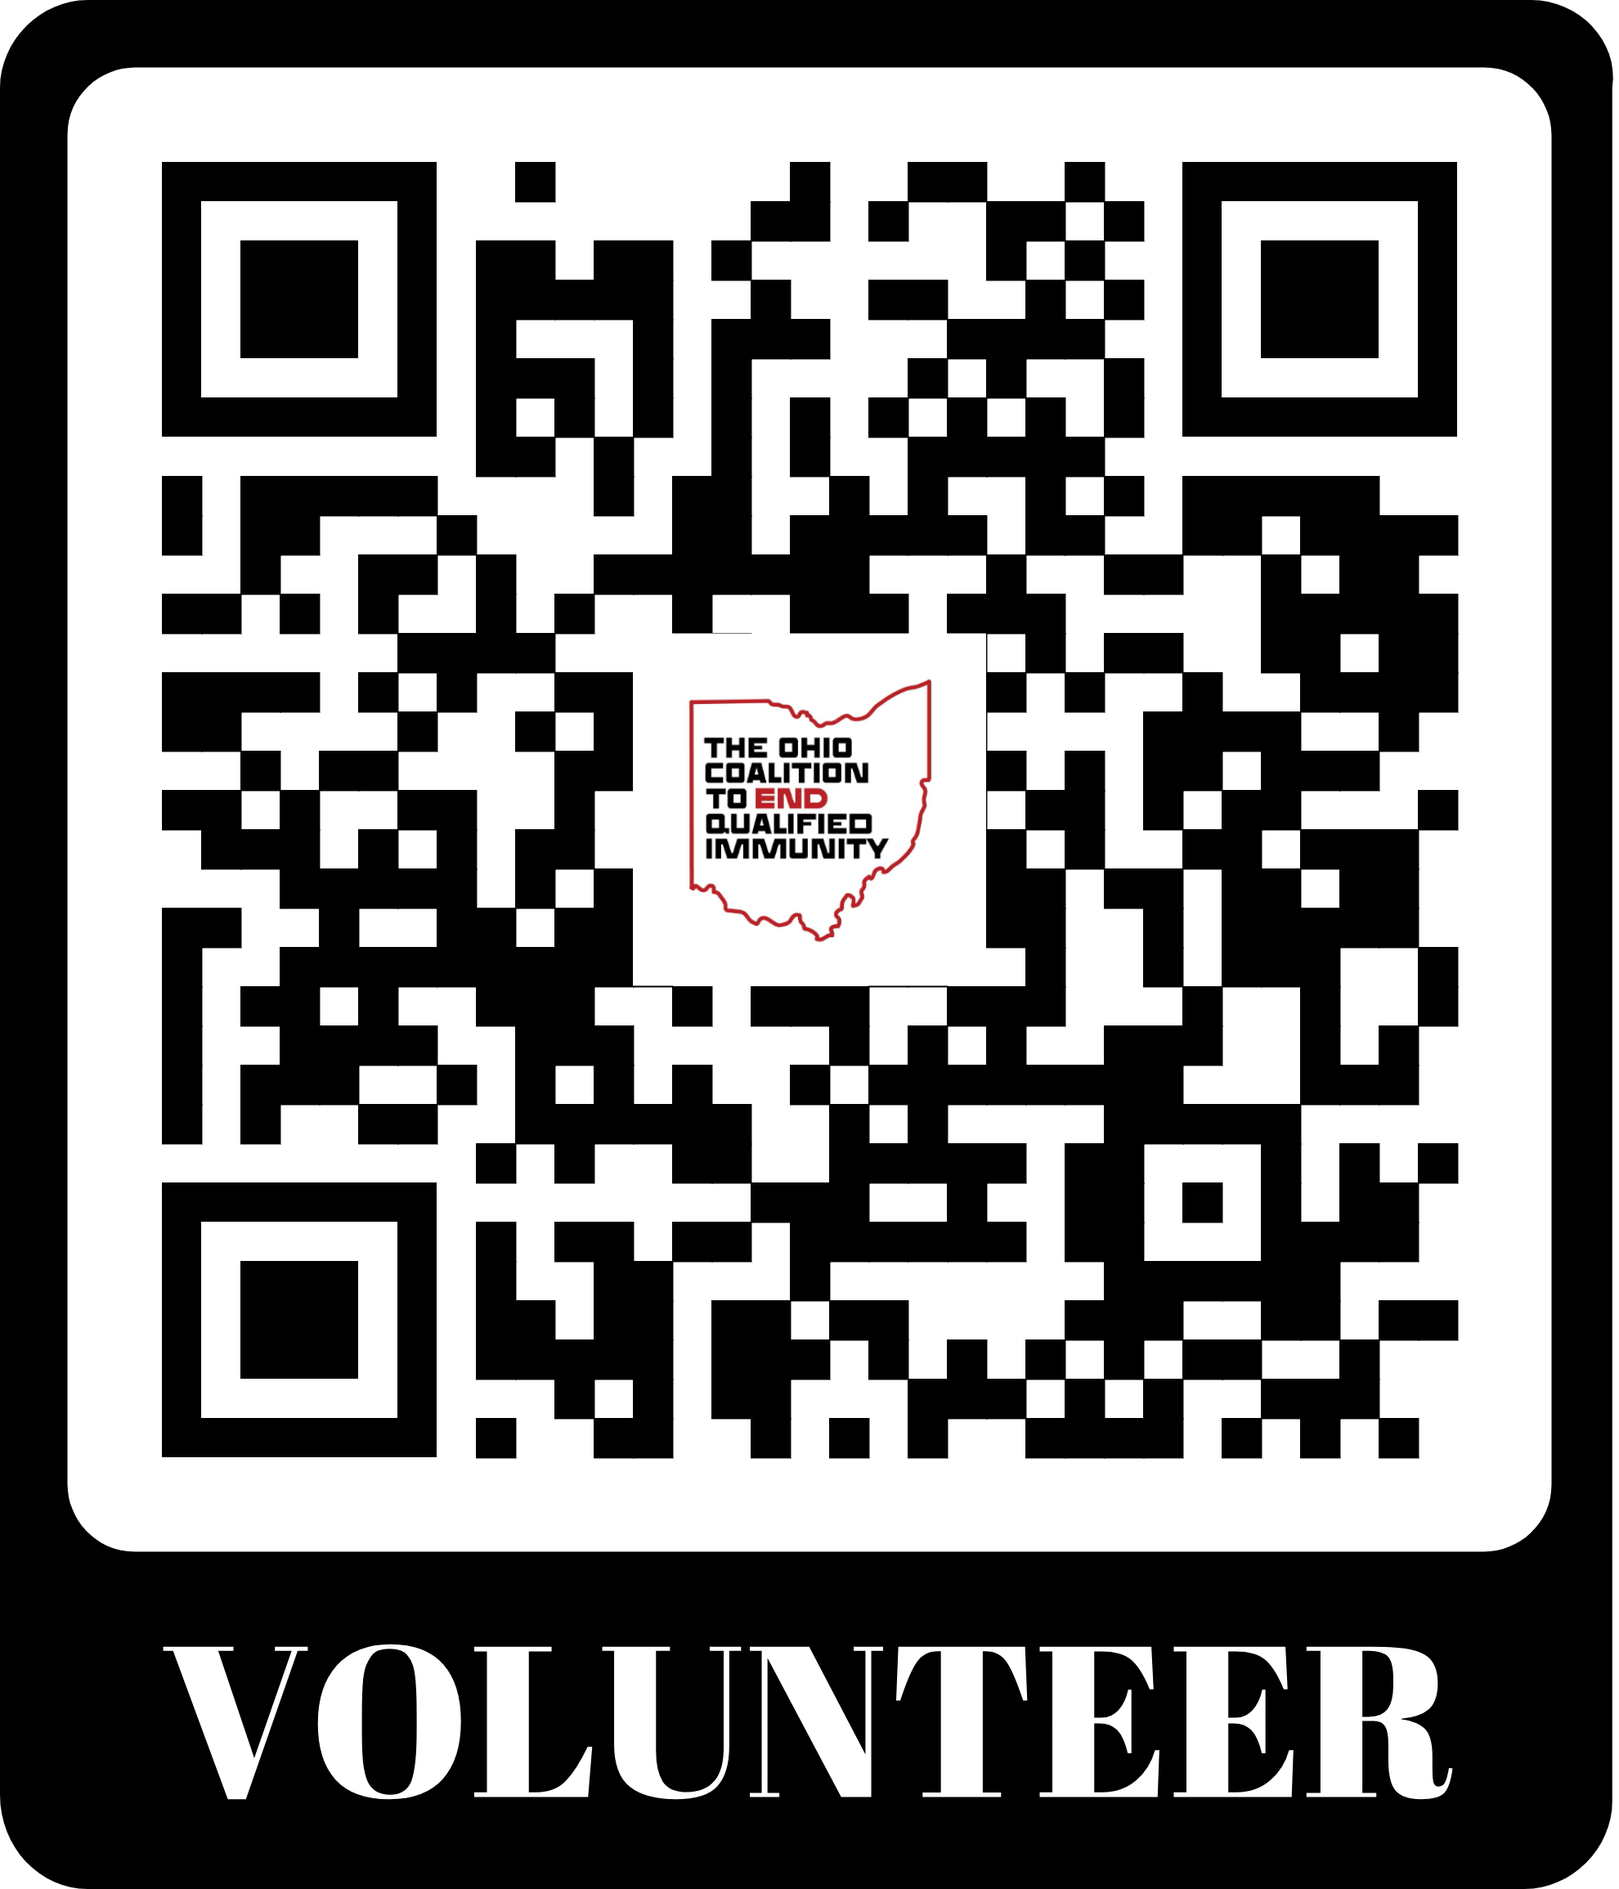
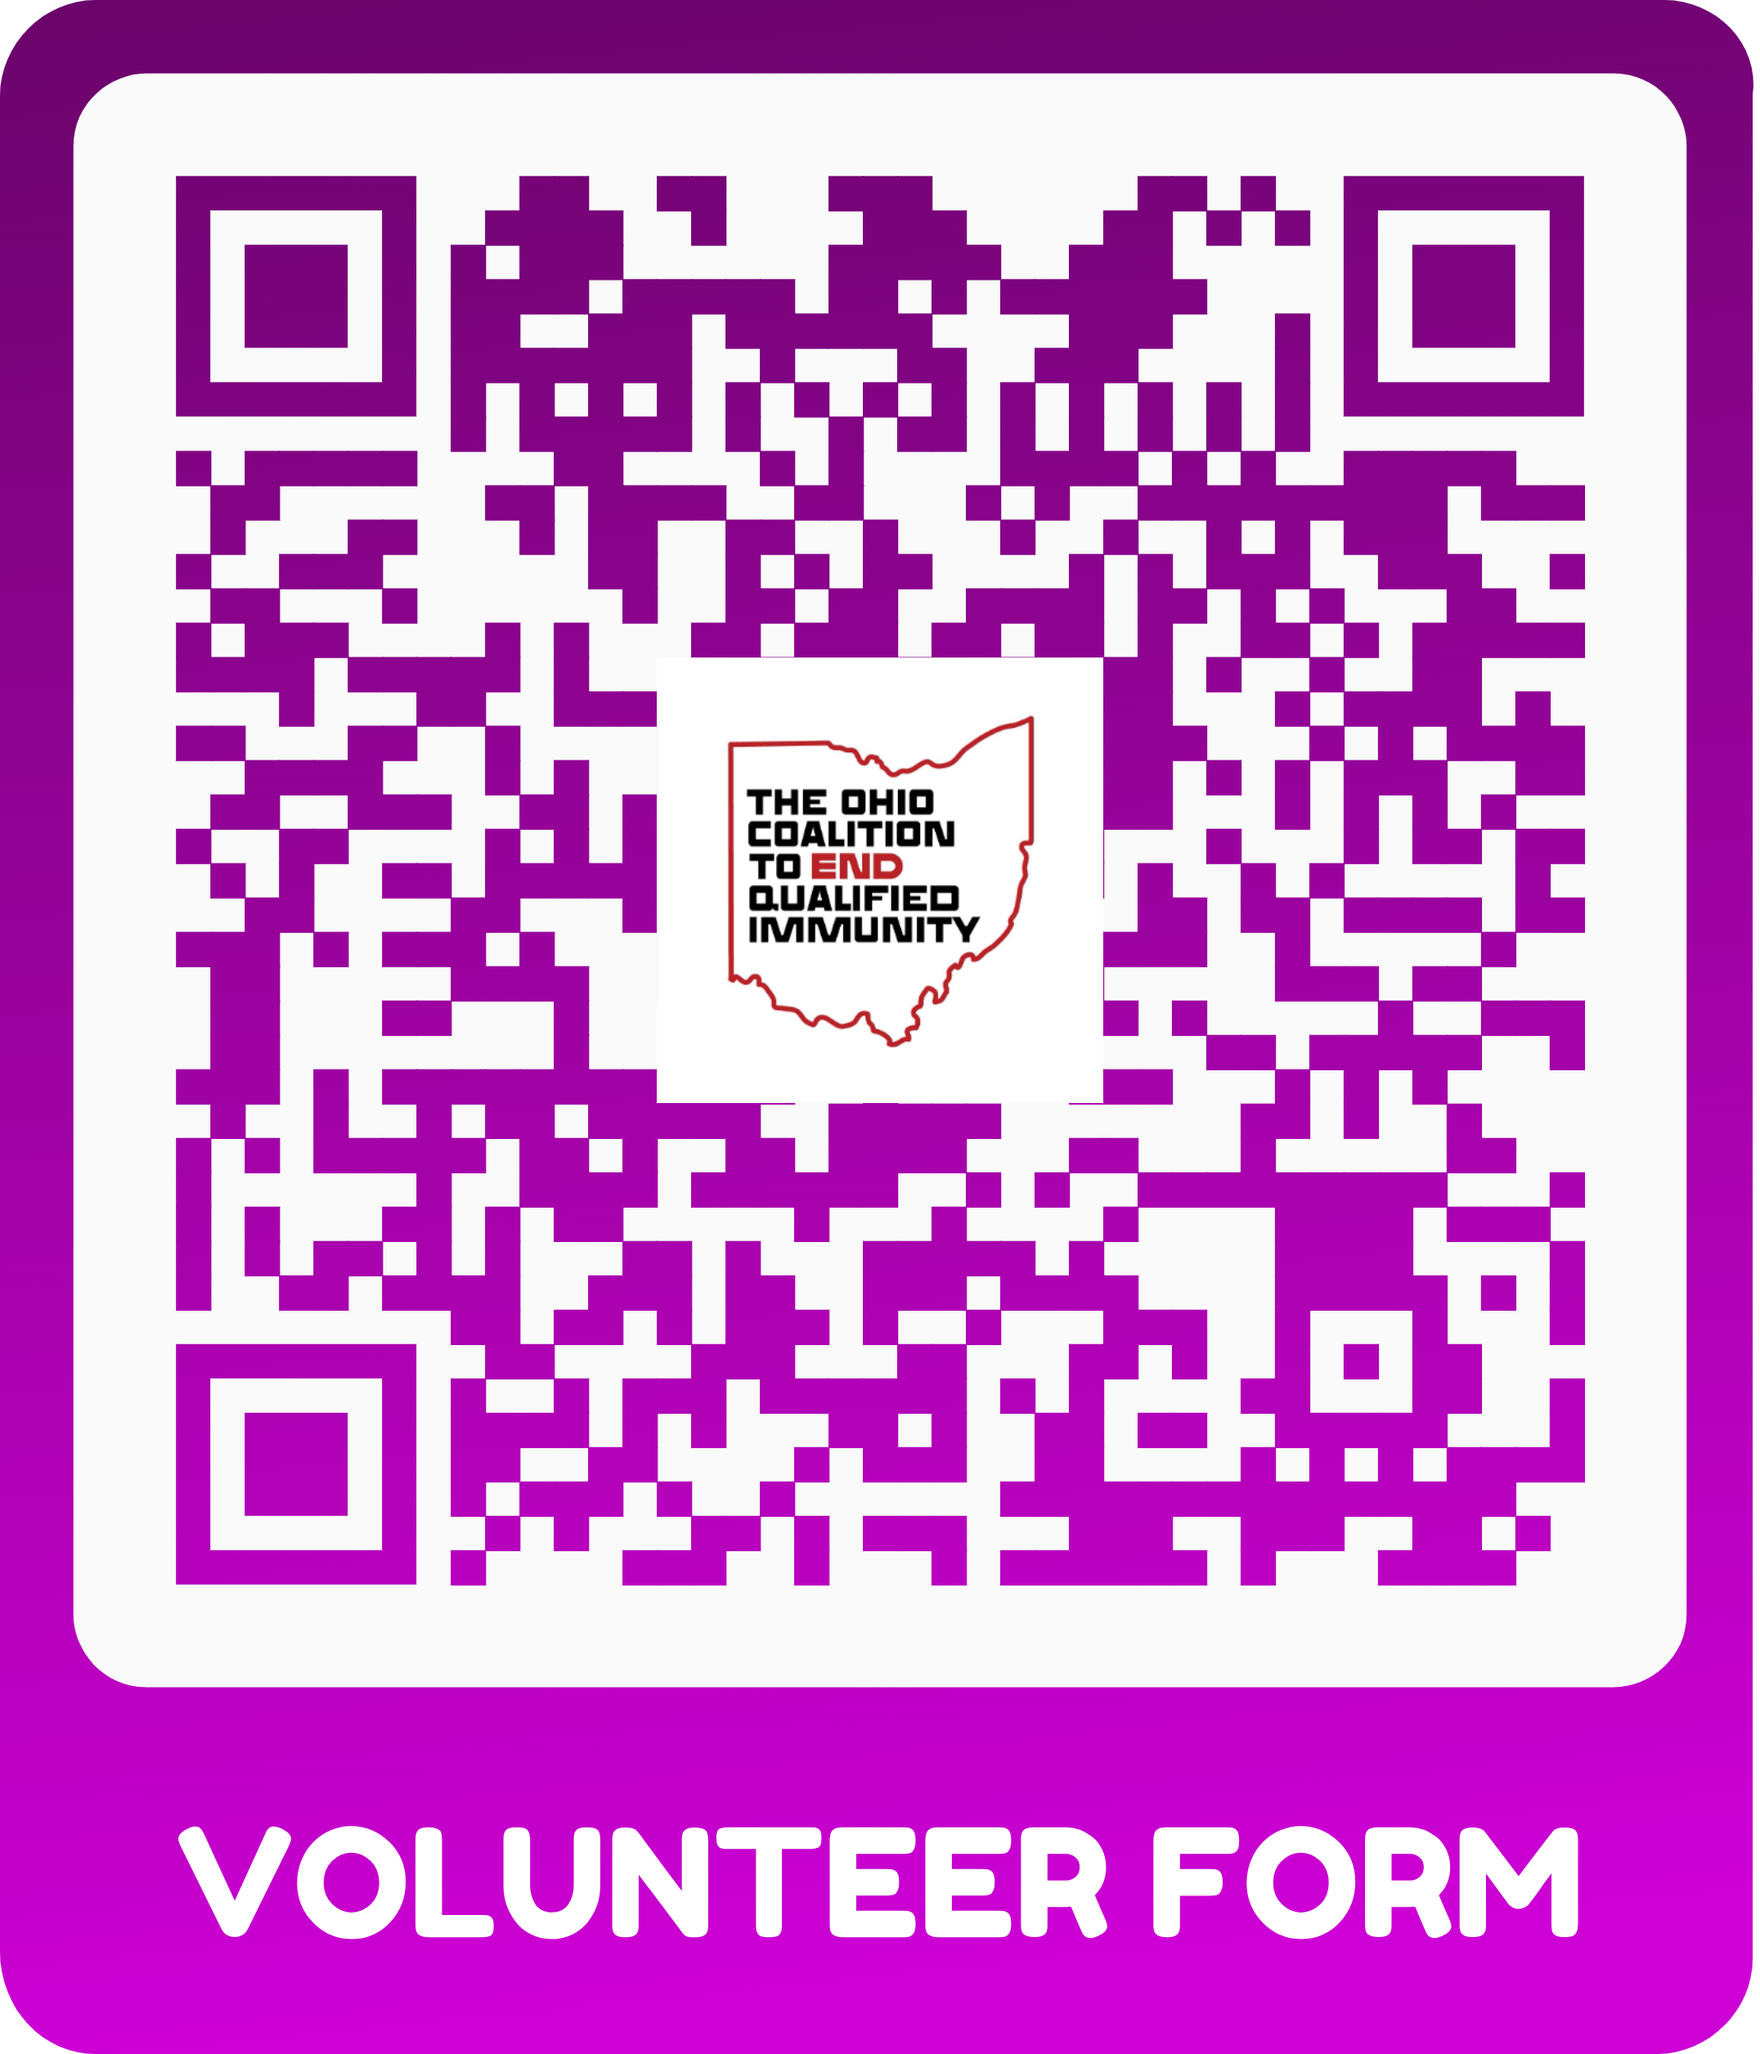
"main: update qr code for google form"

diff --git a/flyer_version_1.css b/flyer_version_1.css
@@ -215,40 +215,40 @@
             font-size: 1.1em;
         }
 
-.image-container {
-    width: 300px;
-    height: auto;
-    margin: 0 auto;
-    overflow: hidden;
-    text-align: center;
-}
+        .image-container {
+            width: 300px;
+            height: auto;
+            margin: 0 auto;
+            overflow: hidden;
+            text-align: center;
+        }
 
-.image-container a img {
-    width: 100%;
-    height: auto;
-    display: inline-block;
-}
+        .image-container a img {
+            width: 100%;
+            height: auto;
+            display: inline-block;
+        }
 
-a:link {
-  color: green;
-  background-color: transparent;
-  text-decoration: underline;
-}
+        a:link {
+            color: green;
+            background-color: transparent;
+            text-decoration: underline;
+        }
 
-a:visited {
-  color: pink;
-  background-color: transparent;
-  text-decoration: none;
-}
+        a:visited {
+            color: pink;
+            background-color: transparent;
+            text-decoration: none;
+        }
 
-a:hover {
-  color: red;
-  background-color: transparent;
-  text-decoration: underline;
-}
+        a:hover {
+            color: red;
+            background-color: transparent;
+            text-decoration: underline;
+        }
 
-a:active {
-  color: yellow;
-  background-color: transparent;
-  text-decoration: underline;
-}
+        a:active {
+            color: yellow;
+            background-color: transparent;
+            text-decoration: underline;
+        }

diff --git a/index.html b/index.html
@@ -112,11 +112,11 @@
             <div class="benefits">
                     <h3><a href="https://docs.google.com/forms/d/1umHuE3vYtDZqJ3DQJvoo8bAHufmIA1mZKUjIamgLoNY/">SIGN UP!</a></h3>
             </div>
-            <!-- <div class="image-container"> -->
-            <!--     <a href="https://docs.google.com/forms/d/1umHuE3vYtDZqJ3DQJvoo8bAHufmIA1mZKUjIamgLoNY/"> -->
-            <!--         <img src="images/oceqi_volunteer.png" alt="Volunteer intake form QR code" /> -->
-            <!--     </a> -->
-            <!-- </div> -->
+            <div class="image-container">
+                <a href="https://docs.google.com/forms/d/1umHuE3vYtDZqJ3DQJvoo8bAHufmIA1mZKUjIamgLoNY/">
+                    <img src="images/oceqi_volunteer.png" alt="Volunteer intake form QR code" />
+                </a>
+            </div>
         </div>
 
         <div class="org-name">
